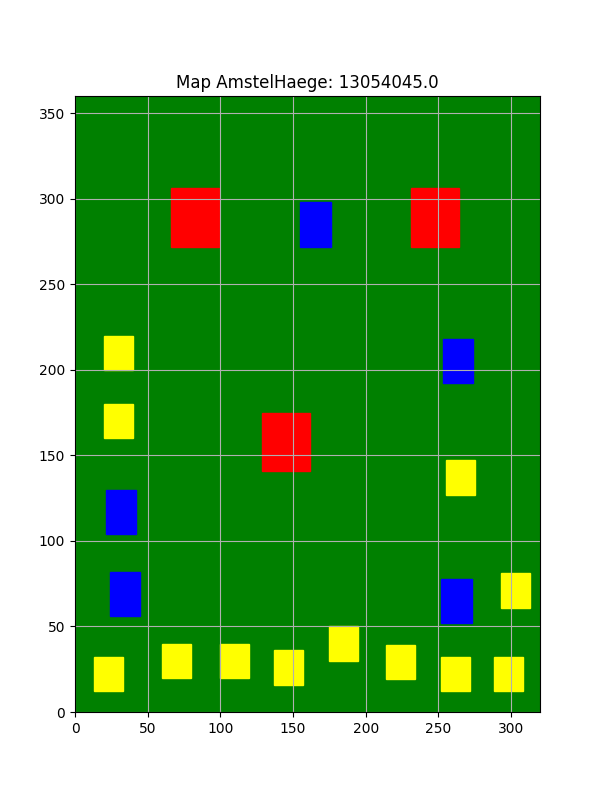
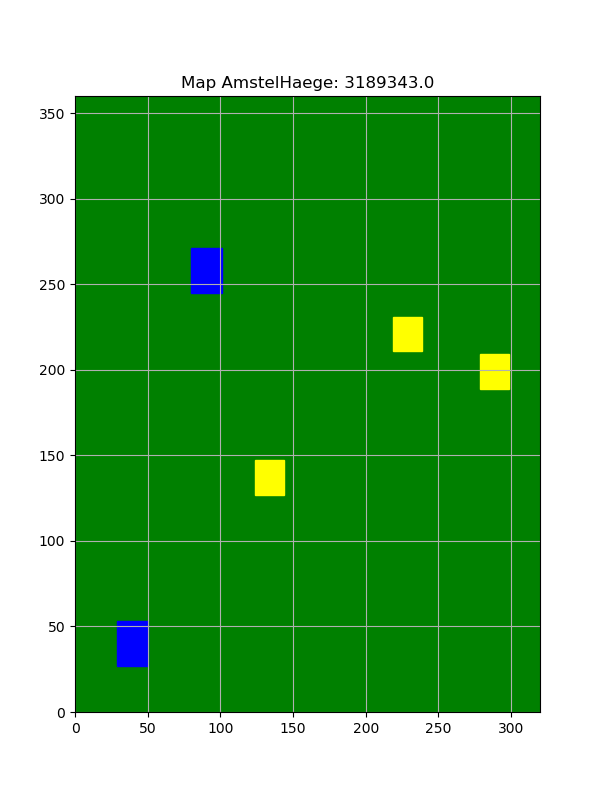
work in progress

diff --git a/AmstelHaege/code/hill_climber.py b/AmstelHaege/code/hill_climber.py
@@ -13,99 +13,85 @@ PERCENTAGES = [0.15, 0.35, 0.6]
 WIDTH = 320
 HEIGHT = 360
 
-def hill_climber(amstelhaege, x, y, index, counter_iteration):
-    """
-    The basics of the hill climber.
-    """
+list_x_values = []
+list_random_climber_values = []
 
-    total_value = amstelhaege.value
-    print(total_value)
-
-    old_x = amstelhaege.houses_placed[index].x
-    old_y = amstelhaege.houses_placed[index].y
-
-    list_random_climber_values = []
-    list_x_values = []
-
-    amstelhaege.move_house(index,y,x)
-
-    not_possible = 0
-    if not amstelhaege.houses_placed[index].in_map():
-        not_possible += 1
-        amstelhaege.move_house(index, old_x, old_y)
-
-    else:
-        for object in amstelhaege.houses_placed:
-            if not object == amstelhaege.houses_placed[index]:
-                if amstelhaege.houses_placed[index].intersect(object):
-                    not_possible += 1
-                    amstelhaege.move_house(index, old_x, old_y)
-
-    if not_possible == 0:
-
-        amstelhaege.calculate_totalvalue()
-
-
-        if amstelhaege.value > total_value:
-
-            list_x_values.append(counter_iteration)
-
-            list_random_climber_values.append(amstelhaege.value)
-            total_value = amstelhaege.value
-
-        else:
-            amstelhaege.move_house(index, old_x, old_y)
-
-    return list_x_values
-
+def basics(amstelhaege):
+    blabla 
 
 def hill_climber_random(amstelhaege):
-    """
-    This hill climber selects random houses and places those on random coordinates.
-    """
-    counter_iteration = 0
+
+    amstelhaege.calculate_totalvalue()
+    total_value = amstelhaege.value
+
+    print(total_value)
 
     starttime = datetime.datetime.now()
     print(starttime.strftime("%Y-%m-%d %H:%M:%S") +"\n")
 
+    counter_iteration = 0
 
-    for i in range(1000):
+    for i in range(5):
         counter_iteration += 1
         index = randint(0, (len(amstelhaege.houses_placed) - 1))
         y = randint(0, HEIGHT)
         x = randint(0, WIDTH)
 
-        hill_climber(amstelhaege, x, y, index, counter_iteration)
+        old_x = amstelhaege.houses_placed[index].x
+        old_y = amstelhaege.houses_placed[index].y
 
+
+        amstelhaege.move_house(index,y,x)
+
+        not_possible = 0
+        if not amstelhaege.houses_placed[index].in_map():
+            not_possible += 1
+            amstelhaege.move_house(index, old_x, old_y)
+
+        else:
+            for object in amstelhaege.houses_placed:
+                if not object == amstelhaege.houses_placed[index]:
+                    if amstelhaege.houses_placed[index].intersect(object):
+                        not_possible += 1
+                        amstelhaege.move_house(index, old_x, old_y)
+
+
+        if not_possible == 0:
+            amstelhaege.calculate_totalvalue()
+
+            if amstelhaege.value > total_value:
+                list_x_values.append(counter_iteration)
+
+                list_random_climber_values.append(amstelhaege.value)
+                total_value = amstelhaege.value
+            else:
+                amstelhaege.move_house(index, old_x, old_y)
 
     endtime = datetime.datetime.now()
     print(endtime.strftime("%Y-%m-%d %H:%M:%S")+ "\n")
 
     amstelhaege.calculate_totalvalue()
     print(amstelhaege.value)
+    print(list_random_climber_values)
 
+    save_distribution(amstelhaege)
+    plot_progress(list_x_values, list_random_climber_values)
+
+    return amstelhaege
+
+
+def plot_progress(list_x_values, list_random_climber_values):
+    plt.plot(list_x_values, list_random_climber_values, color = 'lightseagreen')
+    plt.title("Random Hillclimber")
+    plt.xlabel("number of function evaluations")
+    plt.ylabel("value amstelhaege(20)")
+    plt.grid(True)
+    plt.show()
+
+def save_distribution(amstelhaege):
     fig = amstelhaege.plot_distribution()
-    fig.savefig('test10.png')
+    fig.savefig('testtest.png')
     plt.close(fig)
-    # print(list_random_climber_values)
-
-
-    # plt.plot(list_x_values, list_random_climber_values, color = 'lightseagreen')
-    # plt.title("Random Hillclimber")
-    # plt.grid(True)
-    # plt.show()
-
-def hill_climber_random_systematic(amstelhaege):
-    """
-    This hill climber selects houses randomly, but changes the coordinates systematically.
-    """
-
-def hil_climber_systematic(amstelhaege):
-    """
-    This hill climber uses houses in the order it was initially placed and changes the coordinates systematically.
-    """
-
-
 
 if __name__ == "__main__":
     amstelhaege_random = Area(5)
@@ -113,4 +99,3 @@ if __name__ == "__main__":
     # amstelhaege_greedy = greedy_obj_func.greedy_obj(5)
 
     hill_climber_random(amstelhaege_random)
-    # hill_climber_random_systematic(amstelhaege_random)

diff --git a/AmstelHaege/code/hill_climber_rdm_sys2.py b/AmstelHaege/code/hill_climber_rdm_sys2.py
@@ -15,7 +15,9 @@ HEIGHT = 360
 
 def main():
 
-    rdm_amstelhaege = greedy_obj_func.greedy_obj(20)
+    # rdm_amstelhaege = greedy_obj_func.greedy_obj(20)
+    rdm_amstelhaege = Area(20)
+    rdm_amstelhaege.place_houses()
     rdm_amstelhaege.calculate_totalvalue()
     total_value = rdm_amstelhaege.value
     print(total_value)
@@ -59,7 +61,7 @@ def main():
 
                         rdm_amstelhaege.calculate_totalvalue()
 
-                        if rdm_amstelhaege.value > total_value:
+                        if rdm_amstelhaege.value >= total_value:
                             total_value = rdm_amstelhaege.value
                             values.append(rdm_amstelhaege.value)
                             x_values.append(x_value)
@@ -76,7 +78,7 @@ def main():
     print(rdm_amstelhaege.value)
 
     fig = rdm_amstelhaege.plot_distribution()
-    fig.savefig('hillclimber_rdm_sys_200_20houses.png')
+    fig.savefig('hillclimber_rdm_sys_200_20houses_nogreedy.png')
     plt.close(fig)
 
     plt.plot(x_values, values, color = 'lightseagreen')
